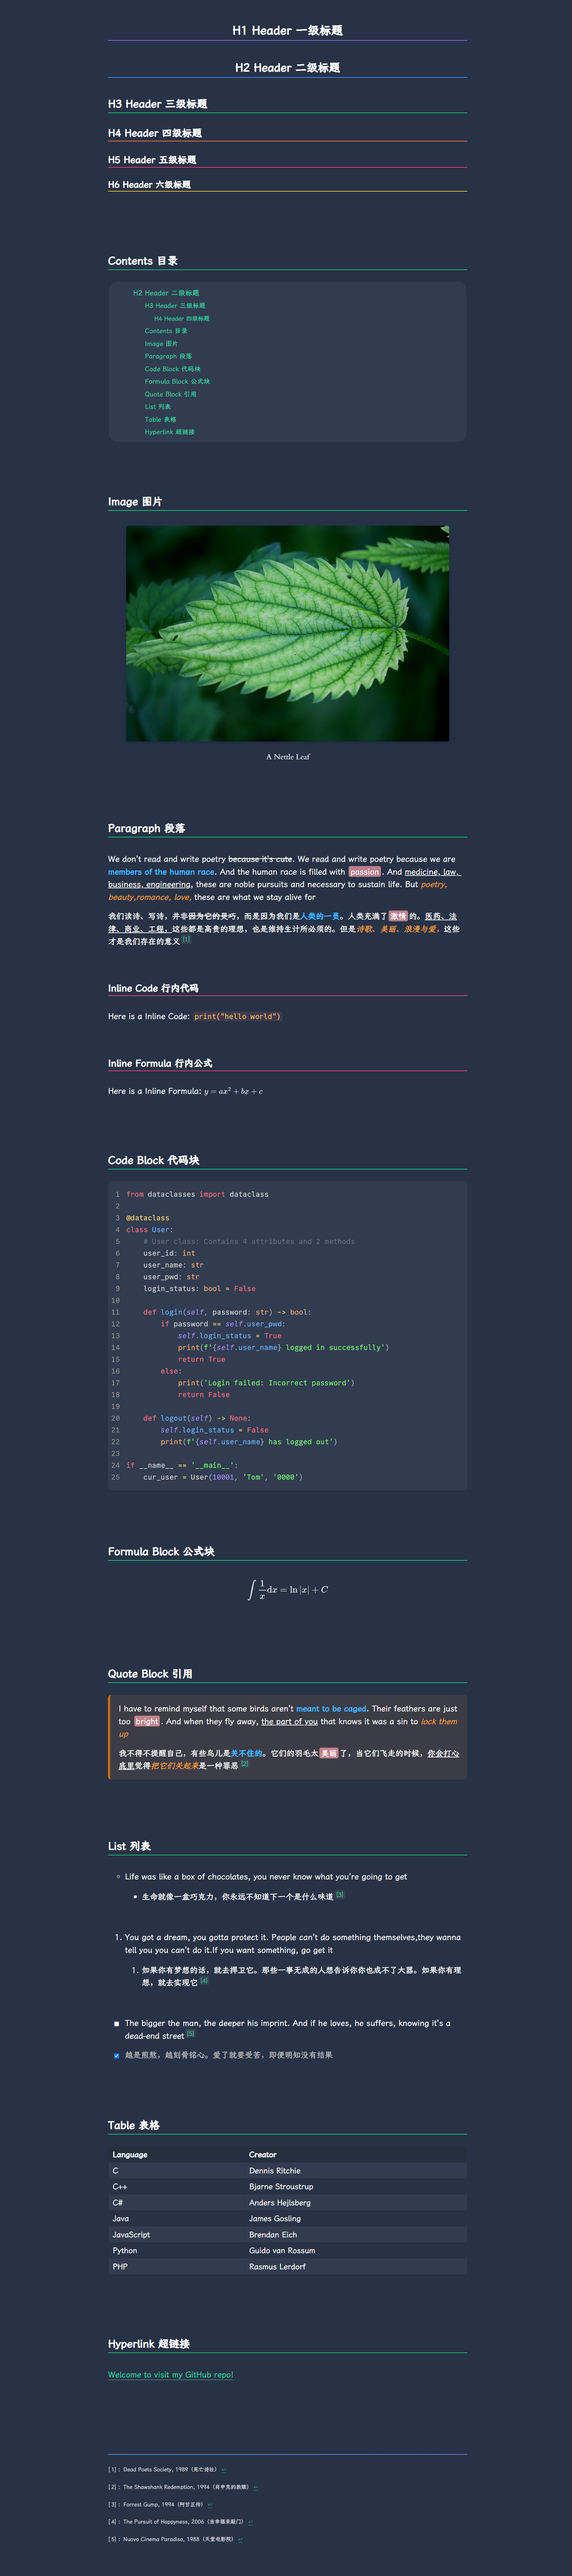
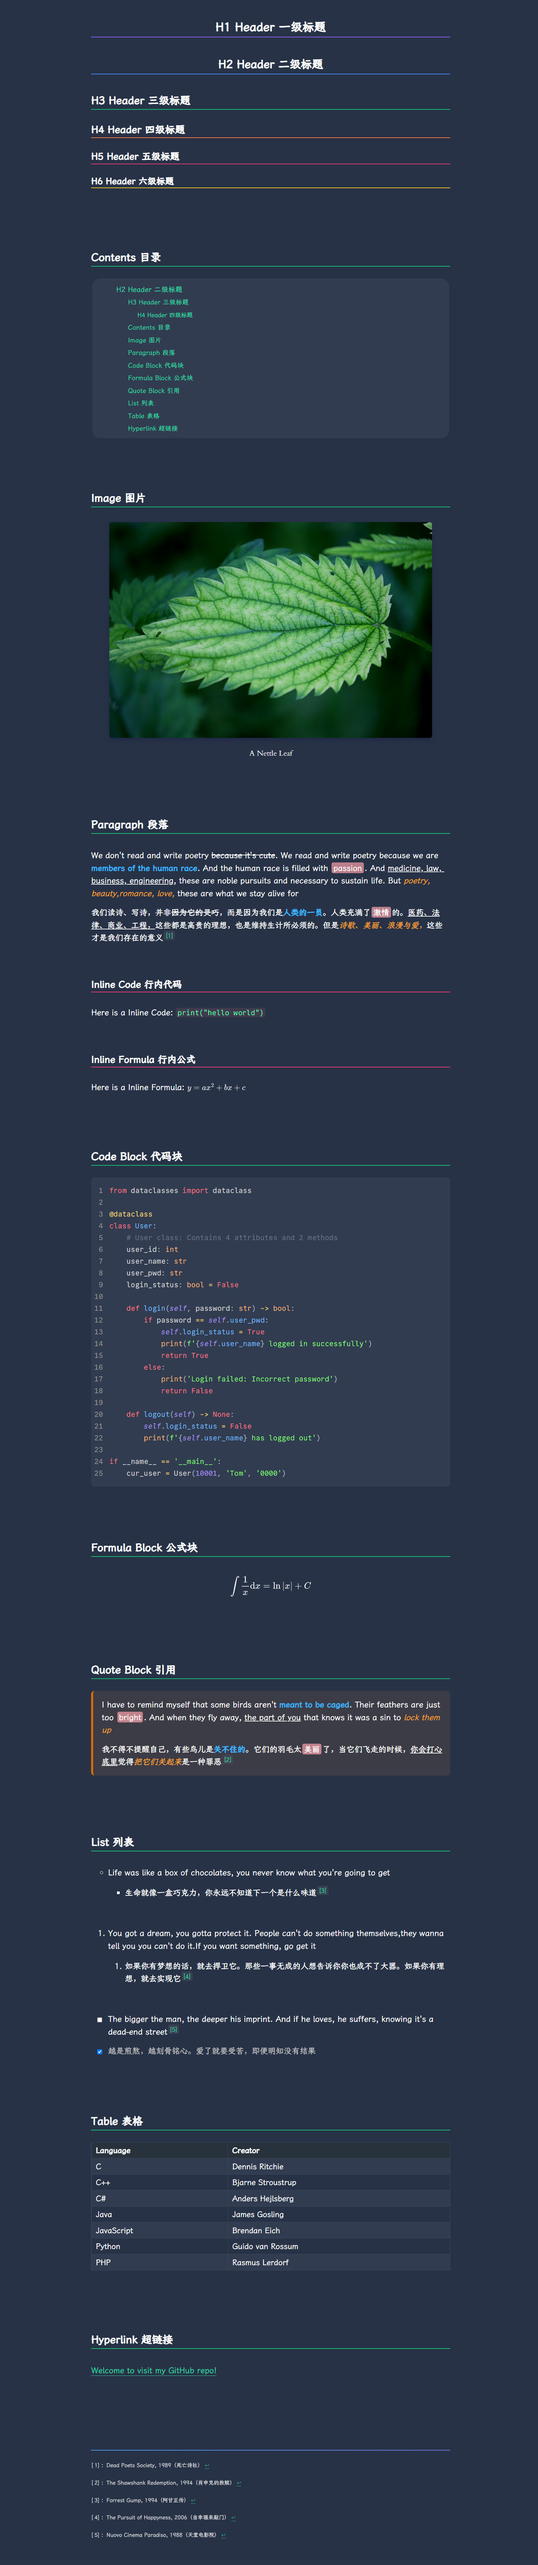
Optimized color theme

diff --git a/rainbow-book.css b/rainbow-book.css
@@ -25,7 +25,6 @@
   --table-head-color: #D9EDE5;
   --table-even-row-color: #F8FCFA;
   --deep-theme-color: #4EB289;
-  /* --code-block-bg-color: #303848; */
   --code-block-bg-color: #F0F0E6;
 
   --side-bar-bg-color: #EAEAE0;           /*change background of sidebar*/
@@ -34,15 +33,15 @@
   --monospace: monospace;                 /*monospace font for codes, fences*/
 
   /* code theme */
-  --code-norm: #505050;
-  --code-gray: #BEBEC8;
-  --code-red: #F0465A;
-  --code-orange: #F09646;
-  --code-yellow: #3CD2D2; /* actually cyan */
-  --code-green: #32D21E;
-  --code-cyan: #BEC828; /* actually yellow */
-  --code-blue: #46A0F0;
-  --code-purple: #965AF0;
+  --code-norm: #464650;
+  --code-gray: #AAAABE;
+  --code-red: #DC3C50;
+  --code-orange: #DC963C;
+  --code-yellow: #AAC832;
+  --code-green: #32C832;
+  --code-cyan: #32C8D2;
+  --code-blue: #3C8CE6;
+  --code-purple: #8C50E6;
 }
 
 
@@ -264,8 +263,8 @@ body {
 tt {
   font-family: "CommitMono Nerd Font", "霞鹜臻楷";
   font-size: 0.9em;
-  color: #B450FF;
-  background-color: rgba(210,210,200,0.8);
+  color: #825AFF;
+  background-color: rgba(230,230,220,0.8);
 }
 
 #write p code,
@@ -410,7 +409,7 @@ code, .md-fences {
 /* C++ & HTML 头文件 */
 /* Java & Python 装饰器 */
 .cm-s-inner .cm-meta {
-  color: var(--code-yellow);
+  color: var(--code-cyan);
 }
 
 /* 关键字 */
@@ -421,7 +420,7 @@ code, .md-fences {
 /* 操作符 */
 /* 包括加减乘除、与或、左移右移等 */
 .cm-s-inner .cm-operator {
-  color: var(--code-yellow);
+  color: var(--code-cyan);
 }
 
 /* 被声明的函数名、类名 */
@@ -501,7 +500,7 @@ code, .md-fences {
 
 /* HTML ID 与标签选择器 */
 .cm-s-inner .cm-quote {
-  color: var(--code-yellow);
+  color: var(--code-cyan);
 }
 
 /* 语法错误 */

diff --git a/rainbow-light.css b/rainbow-light.css
@@ -25,7 +25,6 @@
   --table-head-color: #D9EDE5;
   --table-even-row-color: #F8FCFA;
   --deep-theme-color: #4EB289;
-  /* --code-block-bg-color: #303848; */
   --code-block-bg-color: #F5F5F5;
 
   --side-bar-bg-color: #F8F8F8;           /*change background of sidebar*/
@@ -35,13 +34,13 @@
 
   /* code theme */
   --code-norm: #505050;
-  --code-gray: #BEBEC8;
-  --code-red: #F0465A;
-  --code-orange: #F09646;
-  --code-yellow: #3CD2D2; /* actually cyan */
-  --code-green: #32D21E;
-  --code-cyan: #BEC828; /* actually yellow */
-  --code-blue: #46A0F0;
+  --code-gray: #B4B4BE;
+  --code-red: #E6465A;
+  --code-orange: #E6A046;
+  --code-yellow: #B4D23C;
+  --code-green: #3CD23C;
+  --code-cyan: #3CD2DC;
+  --code-blue: #4696F0;
   --code-purple: #965AF0;
 }
 
@@ -264,8 +263,8 @@ body {
 tt {
   font-family: "CommitMono Nerd Font", "霞鹜臻楷";
   font-size: 0.9em;
-  color: #FF5AA0;
-  background-color: rgba(230,230,250,0.8);
+  color: #BE5AFA;
+  background-color: rgba(235,235,235,0.8);
 }
 
 #write p code,
@@ -410,7 +409,7 @@ code, .md-fences {
 /* C++ & HTML 头文件 */
 /* Java & Python 装饰器 */
 .cm-s-inner .cm-meta {
-  color: var(--code-yellow);
+  color: var(--code-cyan);
 }
 
 /* 关键字 */
@@ -421,7 +420,7 @@ code, .md-fences {
 /* 操作符 */
 /* 包括加减乘除、与或、左移右移等 */
 .cm-s-inner .cm-operator {
-  color: var(--code-yellow);
+  color: var(--code-cyan);
 }
 
 /* 被声明的函数名、类名 */
@@ -501,7 +500,7 @@ code, .md-fences {
 
 /* HTML ID 与标签选择器 */
 .cm-s-inner .cm-quote {
-  color: var(--code-yellow);
+  color: var(--code-cyan);
 }
 
 /* 语法错误 */

diff --git a/rainbow-dark.css b/rainbow-dark.css
@@ -25,7 +25,6 @@
   --table-head-color: #D9EDE5;
   --table-even-row-color: #F8FCFA;
   --deep-theme-color: #4EB289;
-  /* --code-block-bg-color: #303848; */
   --code-block-bg-color: #323C50;
 
   --side-bar-bg-color: #323C50;           /*change background of sidebar*/
@@ -264,7 +263,7 @@ body {
 tt {
   font-family: "CommitMono Nerd Font", "霞鹜臻楷";
   font-size: 0.9em;
-  color: #FFC85A;
+  color: #5AFFAA;
   background-color: rgba(70,60,80,0.8);
 }
 
@@ -294,7 +293,7 @@ tt {
 /* 表格 */
 #write table tr {
   border: 0;
-  border-top: 1px solid #323C50;
+  border-top: 1px solid #3C465A;
   background-color: #323C50;
 }
 #write table tr:nth-child(2n) {
@@ -304,13 +303,13 @@ tt {
 #write table tr td {
   font-size: 18px;
   line-height: 1.5;
-  border: 1px solid #283246;
+  border: 1px solid #3C465A;
   padding: 5px 10px;
   text-align: left;
 }
 #write table tr th {
   font-weight: bold;
-  background-color: #243040; /* 标题行 */
+  background-color: #28323C; /* 标题行 */
 }
 
 

diff --git a/rainbow.css b/rainbow.css
@@ -25,8 +25,7 @@
   --table-head-color: #D9EDE5;
   --table-even-row-color: #F8FCFA;
   --deep-theme-color: #4EB289;
-  /* --code-block-bg-color: #303848; */
-  --code-block-bg-color: #323C48;
+  --code-block-bg-color: #323C50;
 
   --side-bar-bg-color: #F8F8F8;           /*change background of sidebar*/
   --item-hover-bg-color: rgba(229, 229, 229, 0.59); /*background of control items when hover, like menu in sidebar*/
@@ -264,8 +263,8 @@ body {
 tt {
   font-family: "CommitMono Nerd Font", "霞鹜臻楷";
   font-size: 0.9em;
-  color: #5AFFE6;
-  background-color: rgba(50,60,70,0.65);
+  color: #5AFAFF;
+  background-color: rgba(50,60,80,0.7);
 }
 
 #write p code,

diff --git a/README.md b/README.md
@@ -1,22 +1,22 @@
 # Typora Rainbow Themes
 
-<br>
+<br/>
 
 > **Rainbow** is a suite of simple and colorful Typora themes for Chinese and English, inpired by [Maize](https://github.com/BEATREE/typora-maize-theme) and [Liquid](https://github.com/Fentaniao/Liquid).
 
-<br>
+<br/>
 
-<br>
+<br/>
 
 ## Release Note
 
-<br>
+<br/>
 
 ### Release 2025.02
 
 1. Simplify the header style.
 2. Modify the code block theme refer to [Monokai](https://monokai.pro/) to improve readability.
-3. Adjust the color of some text.
+3. Adjust the colors of some text.
 
 <br/>
 
@@ -26,51 +26,58 @@
 
 <br/>
 
-<br>
+### Release 2026.03
+
+1. Modify the code block theme again (and again) to increase identifiability.
+2. Slightly adjust the colors of other parts.
+
+<br/>
+
+<br/>
+
+## How to use
+
+    1. Download and install the required fonts [CommitMono Nerd Font](https://github.com/ryanoasis/nerd-fonts) and [LXGW ZhenKai](https://github.com/lxgw/LxgwZhenKai).
+
+    2. Pick a color theme you like and download the corresponding CSS file.
+
+    3. Open Typora → **File** → **Preference** → **Appearance** → Click `Open Theme Folder` button.
+
+    4. Put the CSS files into the opened folder.
+
+    5. Restart your Typora, then click **Themes** to choose Rainbow.
+
+<br/>
+
+<br/>
 
 ## Screenshots
 
-<br>
+<br/>
 
 ### Rainbow
 
 <img src="img/Rainbow.jpg" style="zoom: 50%;" />
 
-<br>
+<br/>
 
 ### Rainbow Light
 
 <img src="img/Rainbow Light.jpg" style="zoom: 50%;" />
 
-<br>
+<br/>
 
 ### Rainbow Book
 
 <img src="img/Rainbow Book.jpg" style="zoom: 50%;" />
 
-<br>
+<br/>
 
 ### Rainbow Dark
 
 <img src="img/Rainbow Dark.jpg" style="zoom: 50%;" />
 
-<br>
-
-<br>
-
-## How to use
-
-  1. Download and install the required fonts [CommitMono Nerd Font](https://github.com/ryanoasis/nerd-fonts) and [LXGW ZhenKai](https://github.com/lxgw/LxgwZhenKai).
-
-  2. Pick a color theme you like and download the corresponding CSS file.
-
-  3. Open Typora → **File** → **Preference** → **Appearance** → Click `Open Theme Folder` button.
-
-  4. Put the CSS files into the opened folder.
-
-  5. Restart your Typora, then click **Themes** to choose Rainbow.
-
-<br>
+<br/>
 
 <br/>
 
